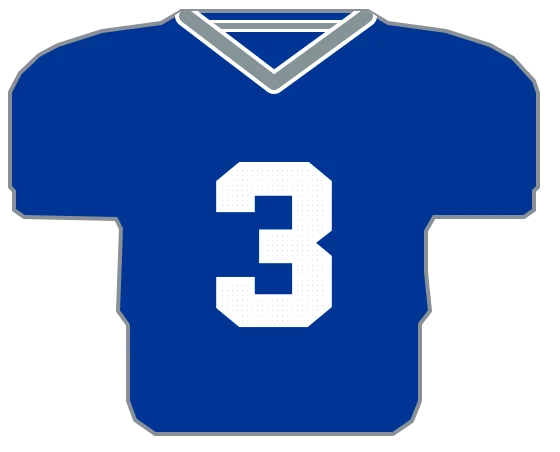
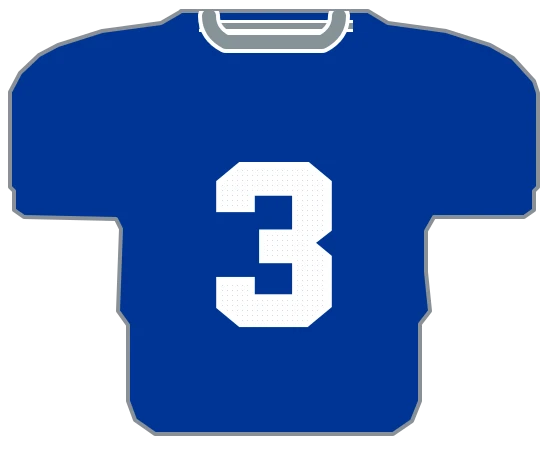
feat(uniforms): use period Cowboys collar
Apply the rounded period collar to the 1964 Cowboys archive and regenerate its jersey raster.

Changed region(s): [[0.3036, 0.0, 0.6679, 0.2168]]

diff --git a/web/lib/uniforms/teams/cowboys.parts.ts b/web/lib/uniforms/teams/cowboys.parts.ts
@@ -22,8 +22,9 @@ import {
 } from './cowboys';
 import { COWBOYS_DECAL_PATHS as GENERATED_COWBOYS_DECAL_PATHS } from './cowboys-decal';
 import { compileParts, type PartLayer, type TeamPartsDefinition, type UniformPart } from './parts';
+import { LEGACY_ROUNDED_COLLAR_PATH } from './shared';
 
-const COLLAR_PATH = 'M206,388 L294,455 L386,388';
+const COLLAR_PATH = LEGACY_ROUNDED_COLLAR_PATH;
 
 // The complete navy/white star is generated from the supplied SVG in its original paint order.
 // The generator excludes only that file's canvas/frame export artifacts; its coordinates preserve
